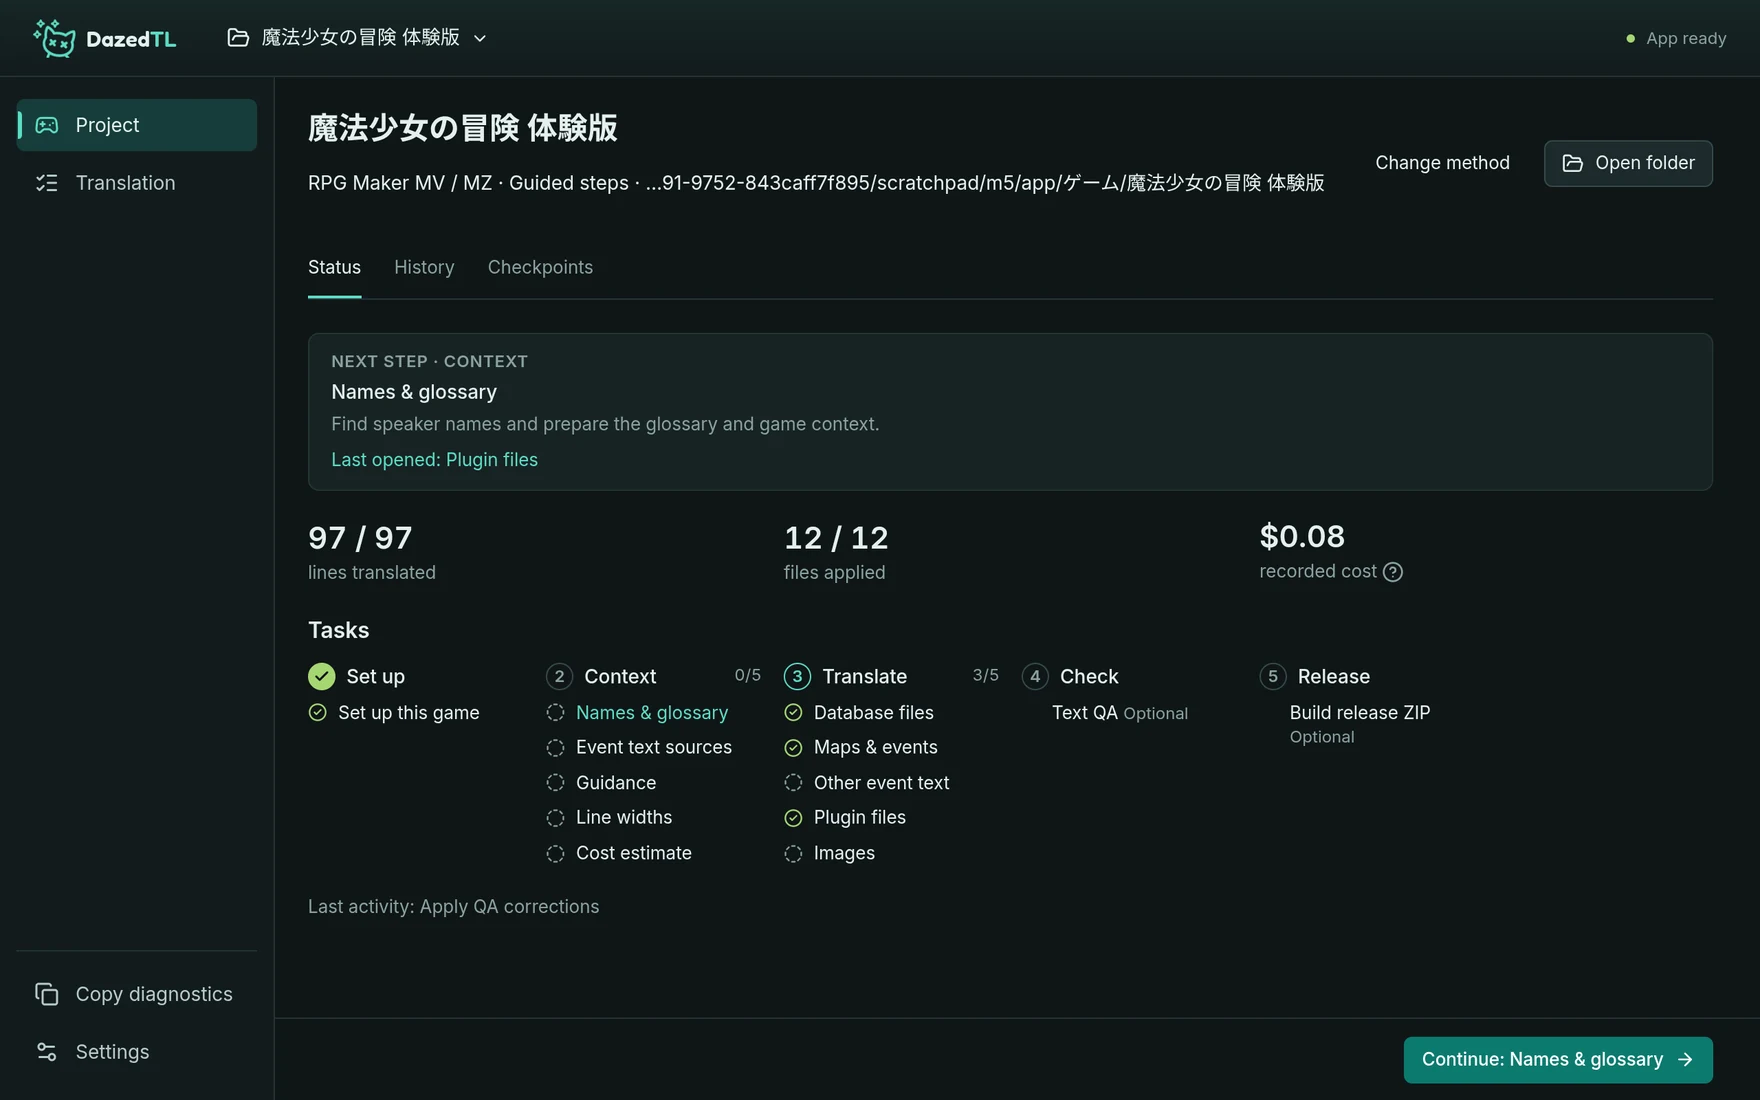
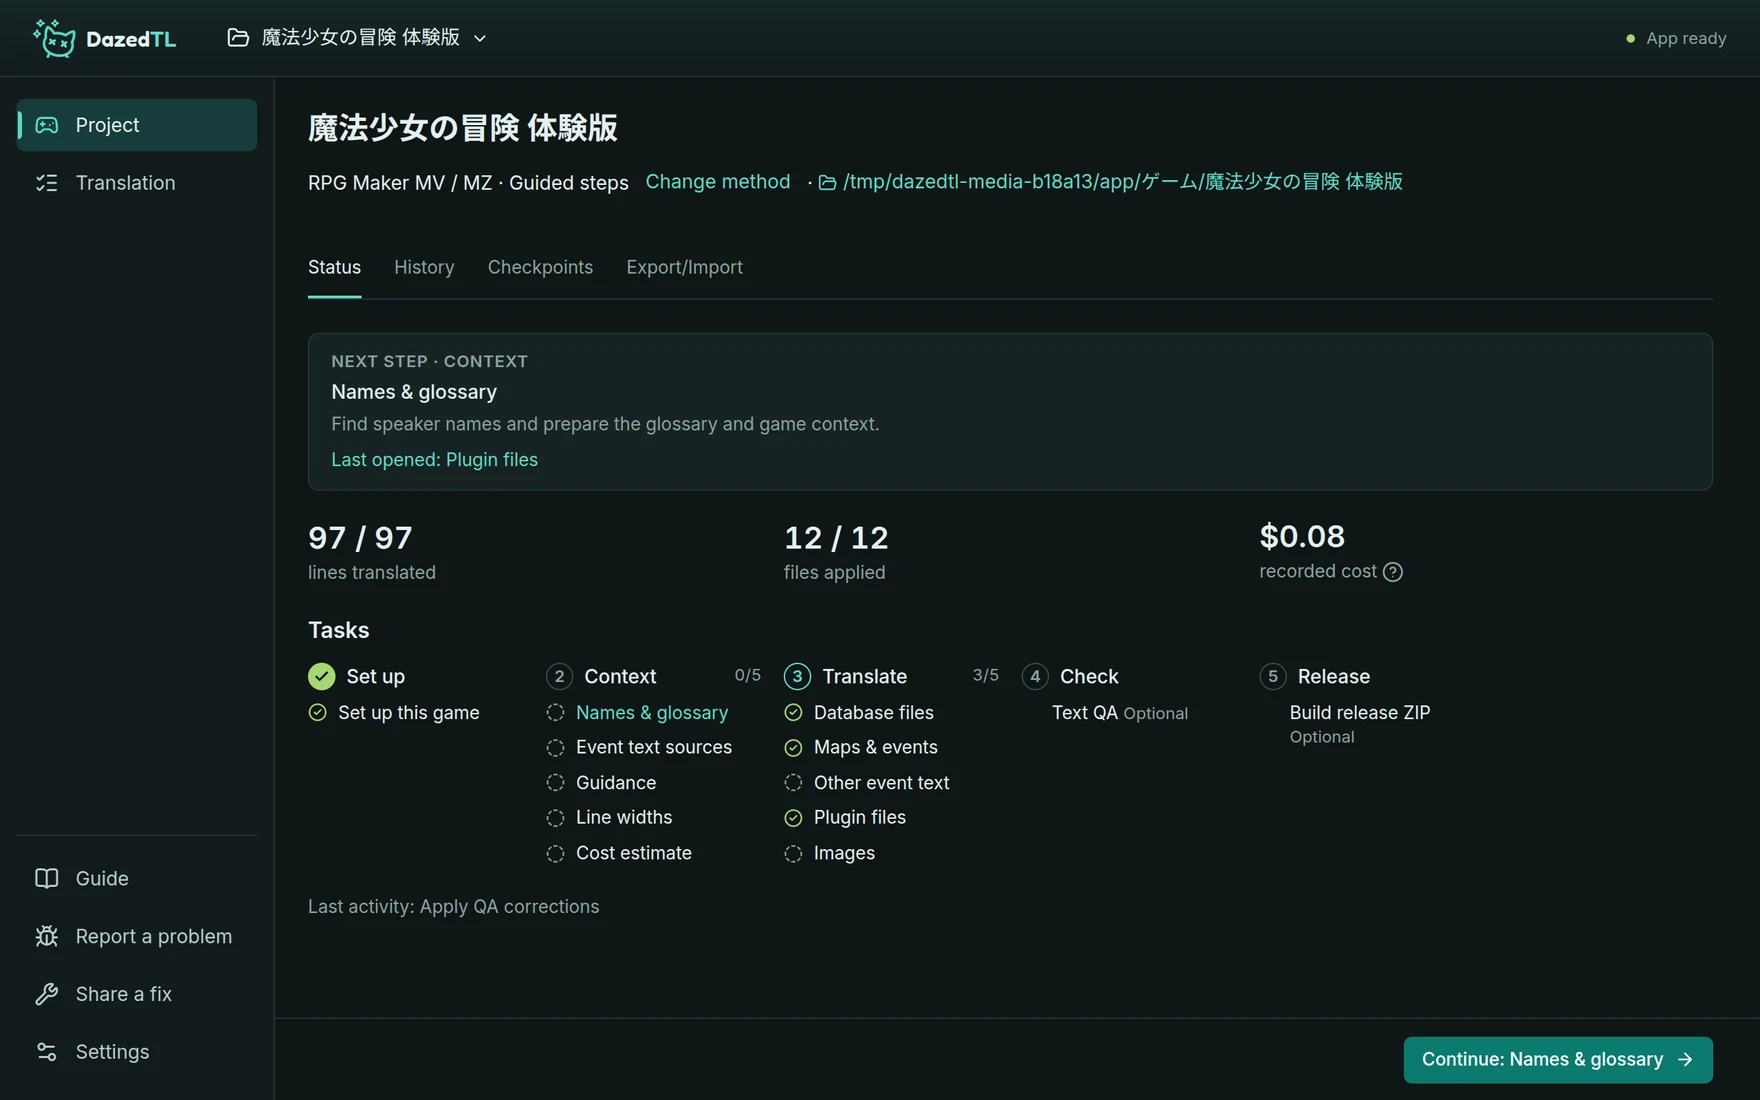
feat(project): move Export and Import to their own Project page tab
- Add an Export/Import tab beside Checkpoints; each result sits on its button's line, so a section keeps its height
- Drop the Translation file card from Status, so Status no longer grows with it
- Put Change method after the method's name and make the game's path the Open folder link, in place of the header buttons
- Show the tab the strip highlights, so a tab that went unavailable gives way to Status
- Say "all translated" in an export's result when every line is
- Point the shared and manual scenarios, the user guide, architecture and the README shot at the tab

diff --git a/app/src/features/project/ProjectPage.tsx b/app/src/features/project/ProjectPage.tsx
@@ -23,7 +23,7 @@ import { PageBody, PageHeader, PageLayout } from "../../ui/PageLayout";
 import { PathText } from "../../ui/PathText";
 import { Section } from "../../ui/Section";
 import { StatusIcon } from "../../ui/StatusIcon";
-import { TabPanel, Tabs } from "../../ui/Tabs";
+import { TabPanel, Tabs, type Tab } from "../../ui/Tabs";
 import { displayLabels, displayMarks } from "../../ui/displayStatus";
 import { useRefocus } from "../../ui/useRefocus";
 import { engineLabel, selectionNames, sentence } from "../../ui/displayText";
@@ -42,17 +42,17 @@ import { VersionsPanel } from "../translation/VersionsPanel";
 import type { SettingsSection } from "../settings/Settings";
 import { CheckpointsPanel } from "./CheckpointsPanel";
 import { methodLabels } from "./MethodDialog";
-import { TranslationFile } from "./TranslationFile";
+import { ExportImport } from "./TranslationFile";
 
-export type ProjectTab = "status" | "history" | "checkpoints";
+export type ProjectTab = "status" | "history" | "checkpoints" | "exchange";
 /** What removing a game from the recent list does, wherever it is offered. */
 export const removeHint =
   "Remove from list. Opening the game again brings it back with its work.";
 type Amounts = ReturnType<typeof projectAmounts>;
 
 /**
- * The game's own page: where it stands, its history and its checkpoints.
- * Both translation methods share these tools here.
+ * The game's own page: where it stands, its history, its checkpoints and its
+ * translation file. Every translation method shares these tools here.
  */
 export default function ProjectPage({
   state,
@@ -112,60 +112,77 @@ export default function ProjectPage({
       />
     );
   const available = !!project.available;
+  const tabs: Tab<ProjectTab>[] = [
+    { id: "status", label: "Status" },
+    { id: "history", label: "History", disabled: !available },
+    { id: "checkpoints", label: "Checkpoints", disabled: !available },
+    // A file's lines belong to a method's work.
+    {
+      id: "exchange",
+      label: "Export/Import",
+      disabled: !available || !project.method,
+    },
+  ];
+  // The panel is the tab the strip shows: a tab that became unavailable,
+  // such as after the game moved, gives way to Status.
+  const shown = tabs.find((item) => item.id === tab && !item.disabled)
+    ? tab
+    : "status";
   return (
     <PageLayout variant="editor" className="project-page" aria-label="Project">
       <PageHeader
         title={project.name}
         description={
+          // Each action sits beside what it changes: the method, and the
+          // folder the path names.
           <span className="path-line">
             <span>
               {engineLabel(project.engine_label || project.engine)} ·{" "}
               {project.method
                 ? methodLabels[project.method]
-                : "No method chosen"}{" "}
-              ·
+                : "No method chosen"}
             </span>
-            <PathText path={project.source} />
-          </span>
-        }
-        actions={
-          <div className="actions">
             {/* Every game has another method to switch to: Assistant-led
                 and Manual take any engine. */}
             {project.method && (
               <Button
-                variant="quiet"
+                variant="link"
+                className="project-method-link"
                 disabled={busy || !available}
                 onClick={chooseMethod}
               >
                 Change method
               </Button>
             )}
-            <Button
-              disabled={!available}
-              onClick={() => window.dazedtl.openFolder("project").catch(report)}
-            >
-              <FolderOpen size={16} aria-hidden="true" />
-              Open folder
-            </Button>
-          </div>
+            <span aria-hidden="true">·</span>
+            {available ? (
+              <Button
+                variant="link"
+                aria-label="Open folder"
+                onClick={() =>
+                  window.dazedtl.openFolder("project").catch(report)
+                }
+              >
+                <FolderOpen size={14} aria-hidden="true" />
+                <PathText path={project.source} />
+              </Button>
+            ) : (
+              <PathText path={project.source} />
+            )}
+          </span>
         }
       />
       <div className="frame-row">
         <Tabs
           id="project"
           label="Project sections"
-          value={tab}
+          value={shown}
           onChange={onTab}
-          items={[
-            { id: "status", label: "Status" },
-            { id: "history", label: "History", disabled: !available },
-            { id: "checkpoints", label: "Checkpoints", disabled: !available },
-          ]}
+          items={tabs}
         />
       </div>
-      <TabPanel id="project" value={tab}>
-        {tab === "status" && (
+      <TabPanel id="project" value={shown}>
+        {shown === "status" && (
           <ProjectStatus
             state={state}
             project={project}
@@ -178,7 +195,7 @@ export default function ProjectPage({
             settings={settings}
           />
         )}
-        {tab === "history" && (
+        {shown === "history" && (
           <ProjectHistory
             key={historyQuery}
             project={project}
@@ -188,12 +205,15 @@ export default function ProjectPage({
             openGuided={openGuided}
           />
         )}
-        {tab === "checkpoints" && (
+        {shown === "checkpoints" && (
           <ProjectCheckpoints
             project={project}
             openTask={openTask}
             openGuided={openGuided}
           />
+        )}
+        {shown === "exchange" && (
+          <ExportImport project={project} disabled={busy} />
         )}
       </TabPanel>
     </PageLayout>
@@ -432,9 +452,6 @@ function ProjectStatus({
         {/* A Manual game has no assistant; another method's tasks return
             with it. */}
         {project.method === "len" && assistantList}
-        {project.available && project.method && (
-          <TranslationFile project={project} disabled={busy} />
-        )}
         {beside && !active && (
           <p className="project-activity">
             Last activity: {beside.label}

diff --git a/app/src/features/project/TranslationFile.tsx b/app/src/features/project/TranslationFile.tsx
@@ -5,11 +5,12 @@ import { useApplication } from "../../app/ApplicationProvider";
 import { useAction } from "../../state/useAction";
 import { ActionBar } from "../../ui/ActionBar";
 import { ActionControl } from "../../ui/ActionControl";
-import { ActionList, ActionRow } from "../../ui/ActionList";
 import { Button } from "../../ui/Button";
 import { DialogBody, DialogHeader } from "../../ui/Dialog";
 import { Modal } from "../../ui/Modal";
+import { PageBody } from "../../ui/PageLayout";
 import { PathText } from "../../ui/PathText";
+import { Section } from "../../ui/Section";
 import { StatusIcon } from "../../ui/StatusIcon";
 import { plural } from "../../ui/displayText";
 
@@ -26,17 +27,23 @@ export async function exportTranslation(project: Project) {
   if (!path) return "";
   const saved = await api.translation.exportFile(project.id, path);
   const csv = saved.path.toLowerCase().endsWith(".csv");
-  return `Saved ${plural(saved.lines, "line")} as ${csv ? "CSV" : "JSON"}, ${saved.translated.toLocaleString()} translated${
+  const translated =
+    saved.lines && saved.translated === saved.lines
+      ? "all"
+      : saved.translated.toLocaleString();
+  return `Saved ${plural(saved.lines, "line")} as ${csv ? "CSV" : "JSON"}, ${translated} translated${
     saved.glossary ? `, with ${plural(saved.glossary, "glossary term")}` : ""
   }.`;
 }
 
 /**
- * The project's translation file: every line with its translation, exported
- * to edit or share, and a file's translations imported back onto the same
- * lines once the user has reviewed what the import changes.
+ * The Project page's Export/Import tab: the project's translation file, every
+ * line with its translation, exported to edit or share, and a file's
+ * translations imported back onto the same lines once the user has reviewed
+ * what the import changes. Each result sits beside its button, so it never
+ * changes a section's height.
  */
-export function TranslationFile({
+export function ExportImport({
   project,
   disabled,
 }: {
@@ -64,12 +71,14 @@ export function TranslationFile({
     );
   return (
     <>
-      <ActionList>
-        <ActionRow
-          title="Translation file"
-          description="Every line with its translation, as JSON or CSV, to edit or share. Import one to take its translations."
-        >
+      <PageBody className="project-exchange">
+        <Section title="Export">
+          <p>
+            Every line with its translation, and the game's glossary, as JSON or
+            CSV to edit in your own tools or share.
+          </p>
           <ActionControl
+            inline
             label="Export…"
             disabled={disabled || action.busy}
             pending={action.busy && action.key === "export"}
@@ -85,7 +94,14 @@ export function TranslationFile({
               if (done.ok && done.value) action.succeed(done.value, "export");
             }}
           />
+        </Section>
+        <Section title="Import">
+          <p>
+            Take a JSON or CSV file's translations onto the same lines. You
+            review what changes before anything is saved.
+          </p>
           <ActionControl
+            inline
             label="Import…"
             disabled={disabled || action.busy}
             pending={action.busy && action.key === "import"}
@@ -94,8 +110,9 @@ export function TranslationFile({
             notice={action.key === "import" ? action.notice : ""}
             onClick={() => void choose()}
           />
-        </ActionRow>
-      </ActionList>
+        </Section>
+      </PageBody>
+      <ActionBar feedback={null}>{null}</ActionBar>
       {preview && (
         <ImportReview
           project={project}

diff --git a/app/src/features/project/project.css b/app/src/features/project/project.css
@@ -1,8 +1,13 @@
-/* The Project page: the game's status, history and checkpoints. */
+/* The Project page: the game's status, history, checkpoints and translation
+   file. */
 .project-page .page-header p {
   overflow: hidden;
   text-overflow: ellipsis;
   white-space: nowrap;
+}
+/* Change method keeps some room from the facts on either side. */
+.project-method-link {
+  margin-inline: var(--space-2);
 }
 .project-next-stage {
   display: block;
@@ -97,6 +102,16 @@
 }
 .project-stages .link-button[aria-current="step"] {
   color: var(--color-accent);
+}
+/* Export/Import: each section says what its action does, and the result
+   sits beside the button, so a section keeps its height. */
+.project-exchange .ui-section > p {
+  margin: 0 0 var(--space-3);
+  color: var(--color-muted);
+  font-size: var(--font-control);
+}
+.project-exchange .action-control > .ui-button {
+  min-width: var(--action-button-width);
 }
 .project-activity {
   margin: var(--space-5) 0 0;

diff --git a/app/src/styles/ui.css b/app/src/styles/ui.css
@@ -1360,7 +1360,7 @@ pre {
 .action-row-actions
   > :is(.ui-button, .action-control > .ui-button):not(.link-button, .quiet),
 .action-row-actions > .action-control > .ui-button:not(.link-button, .quiet) {
-  min-width: 8rem;
+  min-width: var(--action-button-width);
 }
 .action-row-actions > .action-control:not(.action-control--inline) {
   display: contents;
@@ -2005,6 +2005,15 @@ pre {
 .path-line > :not(.path-text) {
   flex: none;
   white-space: nowrap;
+}
+/* A path that opens its folder gives way as the path itself does, keeping
+   its icon whole. */
+.path-line > :has(> .path-text) {
+  flex: 0 1 auto;
+  min-width: 0;
+}
+.path-line > :has(> .path-text) > svg {
+  flex: none;
 }
 /* A line and its other versions, labelled in a column; the side a change
    added reads in the success color, the side it removed in the error one.

diff --git a/app/src/styles/tokens.css b/app/src/styles/tokens.css
@@ -126,6 +126,9 @@
   --change-label-width: 5.5rem;
   --field-column-gap: var(--space-4);
   --action-column-width: 19rem;
+  /* Bordered action buttons share this width, so a row or section of them
+     lines up. */
+  --action-button-width: 8rem;
   /* Image Manager's preview column beside the task and grid; narrow
      windows give the grid more of the row. */
   --image-viewer-width: 45%;

diff --git a/docs/architecture.md b/docs/architecture.md
@@ -216,7 +216,7 @@ Use the flat, compact [Settings](../app/src/features/settings/Settings.tsx) and 
 The sidebar has three places: the Project page holds everything about the game, Translation holds the work, and Settings holds the app.
 Beside them, the [Guide](../app/src/features/guide/Guide.tsx) shows the user guide from the install, through the main process so it opens while Python is busy or down; help that a guide section covers links to it with Learn more ([guideSections](../app/src/ui/guideSections.ts)).
 It draws the guide with marked's lexer and its own React components, so no HTML from the file reaches the page, and anchors come from github-slugger, so they match the forge's.
-Each game has one translation method, chosen in [MethodDialog](../app/src/features/project/MethodDialog.tsx); changing it keeps the other methods' work, and the Project page's Status, History and Checkpoints tabs serve all three.
+Each game has one translation method, chosen in [MethodDialog](../app/src/features/project/MethodDialog.tsx); changing it keeps the other methods' work, and the Project page's Status, History, Checkpoints and Export/Import tabs serve all three.
 Screens use four kinds of surface, each with one job:
 
 - A page is somewhere you work or browse, reached from the sidebar and kept when you leave and return.

diff --git a/docs/user-guide.md b/docs/user-guide.md
@@ -195,7 +195,7 @@ After the game changes, load a new extraction: lines whose ID and source stay th
 
 ## Translation files
 
-Under **Translation file** on the Project page, **Export…** saves every line with its translation as JSON, with the glossary, or as CSV for a spreadsheet.
+On the Project page's **Export/Import** tab, **Export…** saves every line with its translation as JSON, with the glossary, or as CSV for a spreadsheet.
 **Import…** shows what a file changes, then takes its translations for the lines whose ID and source text match; the glossary only gains the terms it lacks.
 In Guided steps the translations go into your working copies, so apply them in Translate.
 
